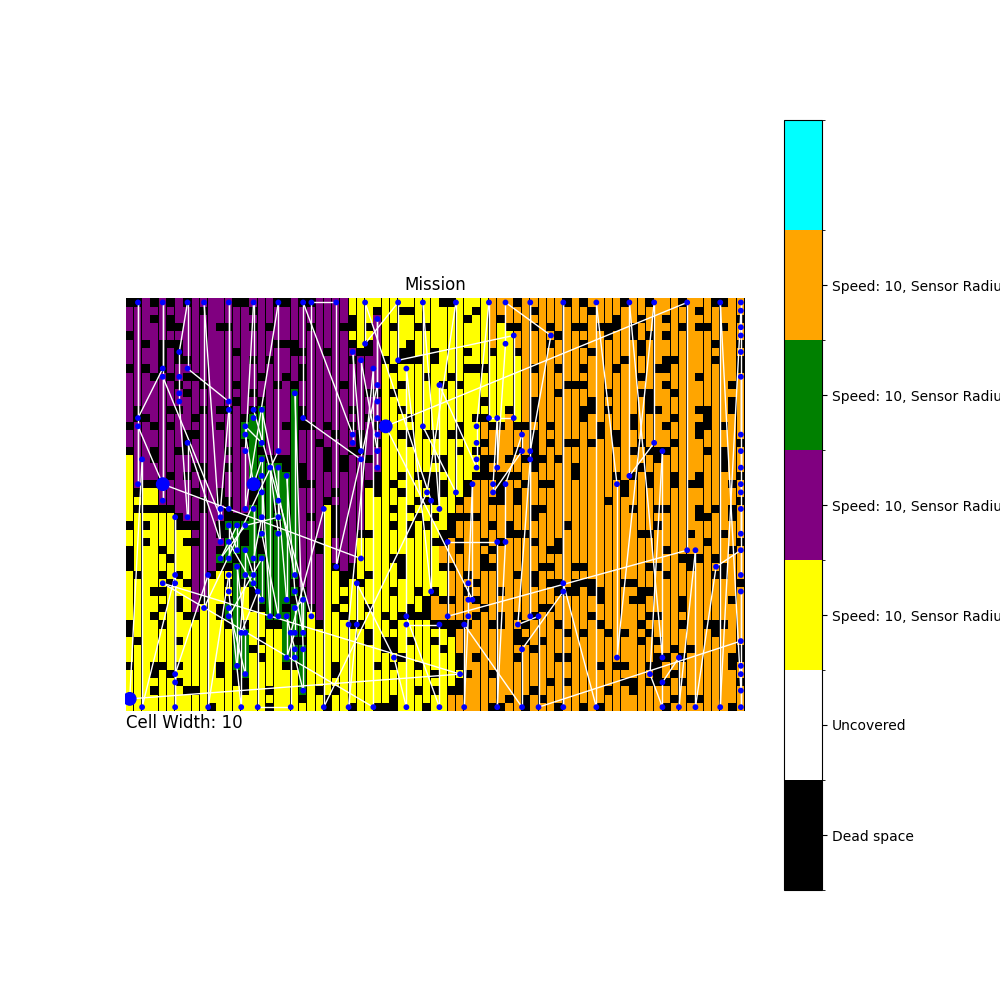
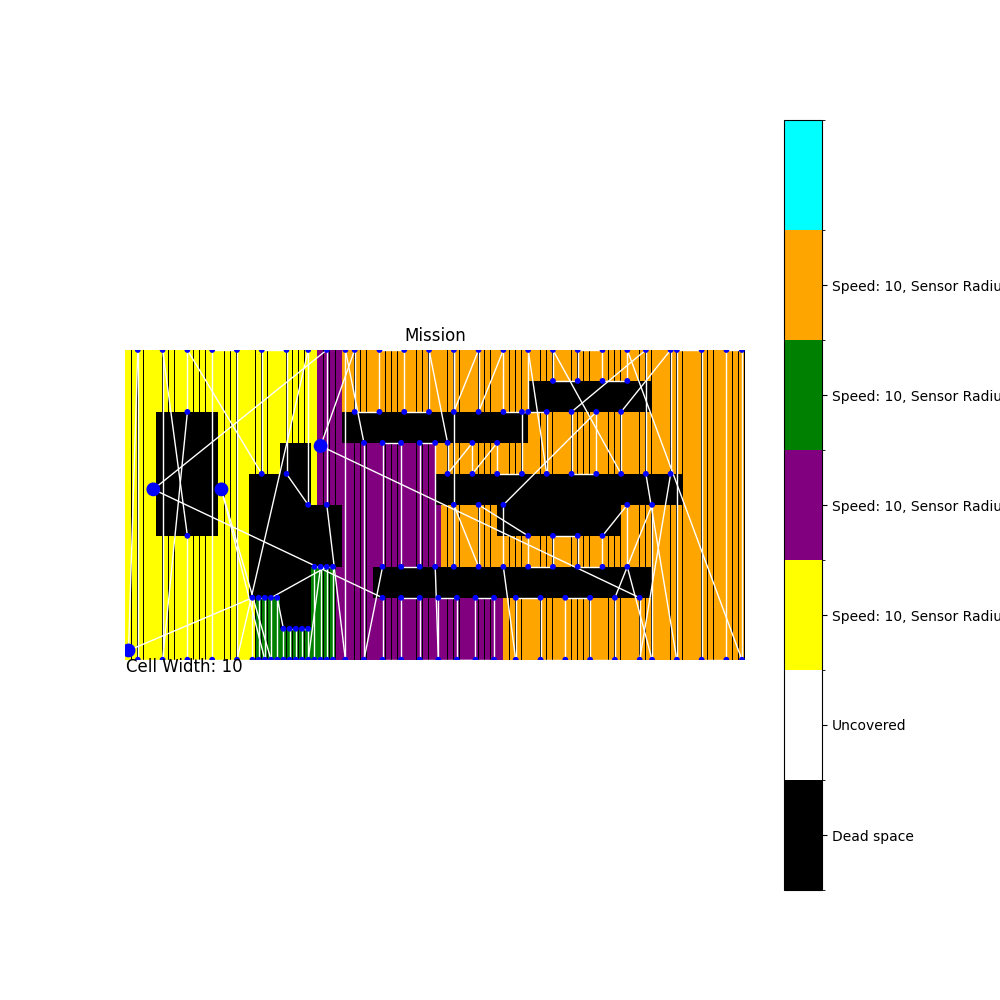
Implemented build launch script. Added paramter to generateAssignment method for iterations.

Changed region(s): [[0.124, 0.279, 0.744, 0.744]]

diff --git a/py/HARMONY/AlgorithmDevelopment/generateAssignments.py b/py/HARMONY/AlgorithmDevelopment/generateAssignments.py
@@ -13,7 +13,7 @@ from AlgorithmDevelopment.missionLayouts import *
 # All the portions of the algorithm, condensed into a single method
 # Input: list of UxV objects, binary grid data, 0 is dead space, 1 is uncovered
 # Output: Dictionary representing vehicle assignments (name : list of waypoints)
-def generate_assignments(UxVs, grid_data, show_graph=False, mission_name="Mission"):
+def generate_assignments(UxVs, grid_data, show_graph=False, mission_name="Mission", iterations=200):
 
     # Create mission object containing graph information to be manipulated
     cellDimension = int(calculate_sensor_range_gcd(UxVs))
@@ -24,7 +24,7 @@ def generate_assignments(UxVs, grid_data, show_graph=False, mission_name="Missio
 
     bals = cyclic_region_growth(mission)
 
-    region_fine_tuning(mission, 1000, bals)
+    region_fine_tuning(mission, iterations, bals)
 
     if show_graph:
         mission.redraw_grid_colormesh()

diff --git a/py/HARMONY/MOOSHandler.py b/py/HARMONY/MOOSHandler.py
@@ -140,7 +140,7 @@ class MOOSHandler:
             for uav in self.available_uavs.values():
                 uav.position = (uav.position[0] - self.survey_area.position[0], uav.position[1] - self.survey_area.position[1])
 
-            uav_assignments = generate_assignments(list(self.available_uavs.values()), grid_data, show_graph=True)
+            uav_assignments = generate_assignments(list(self.available_uavs.values()), grid_data, show_graph=True, iterations=1000)
 
             print("UAVs Assignments:", uav_assignments)
 
